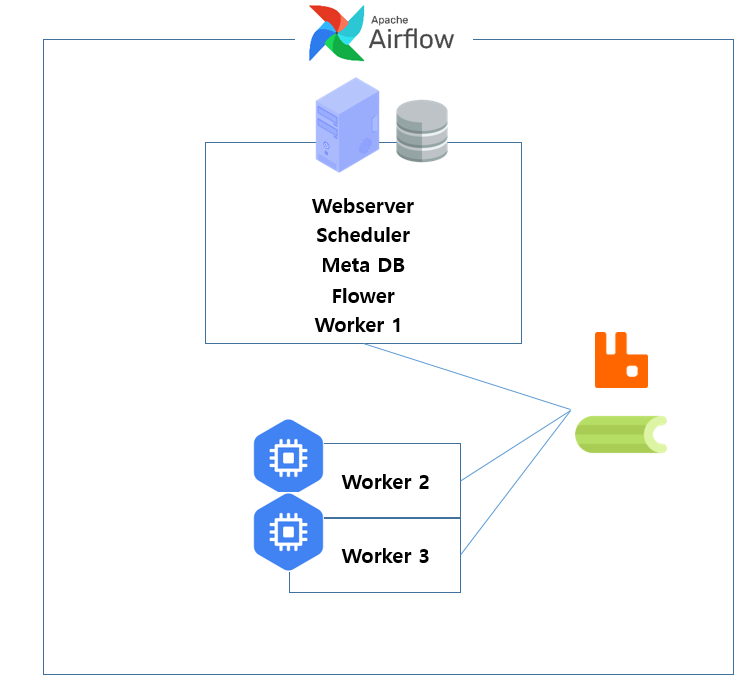
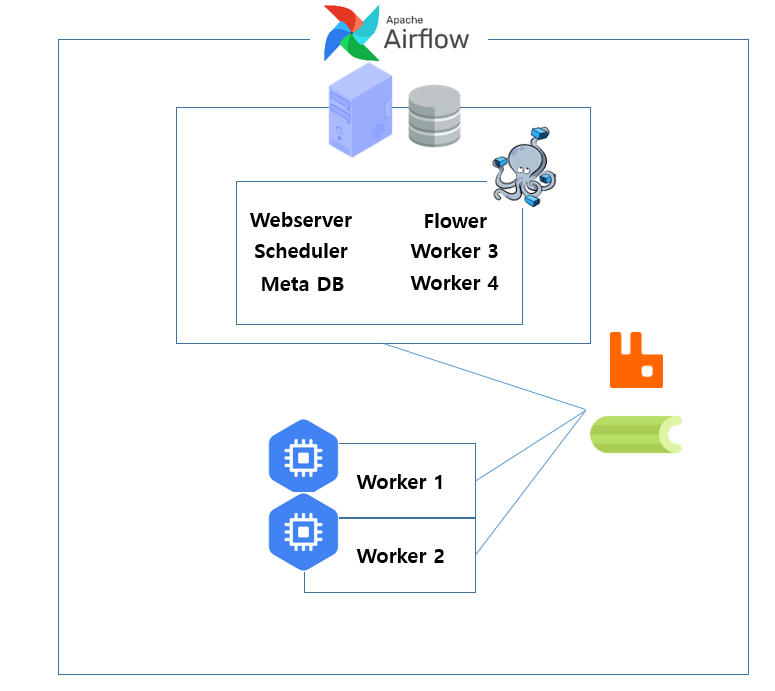
update readme

diff --git a/README.md b/README.md
@@ -8,32 +8,40 @@
 <img src="img/looker_graph.png" width="50%" height="50%">
 <br/><br/>
 
-# Data Pipeline Architecture
-데이터 파이프라인은 GCP기반의 ELT Process로 구성하였습니다.  
-Airflow를 사용하여 데이터 수집부터 집계까지를 자동화하였고 멱등성을 보장하여 재실행에도 중복데이터가 발생하지 않도록 설계하였습니다.  
-Celery Executor를 사용하여 병렬처리하였고 Master 노드를 자택 Local PC에 구성하고 2개의 Worker를 GCE로 구성하여 총 3개의 Worker를 사용했습니다.
+# Data Architecture 
+데이터 인프라는 데이터 수집 속도를 향상시키기 위해 Celery Executor를 사용한 분산서버로 구축하였습니다.  
+Master 노드를 자택 Local PC에 Docker Compose를 통해 구성하였고 2개의 Worker를 GCE로 구성하여 총 4개의 Worker를 사용했습니다.
 <br/><br/>
+
+### Infra Architecture 
 <img src="img/airflow_architecture.png" width="50%" height="50%">
 <br/><br/>
+<br/><br/>
+
+데이터 파이프라인은 GCP기반의 ELT Process로 구성하였습니다.  
+Airflow를 사용하여 데이터 수집부터 집계까지를 자동화하였고 멱등성을 보장하여 재실행에도 중복데이터가 발생하지 않도록 설계하였습니다. 
+<br/><br/>
+
+### Airflow Taskflow
 <img src="https://github.com/dbsgh3344/gcp_estate_project/assets/29767578/cca9ac58-2aa1-441d-839b-a4bb050482e5" width="50%" height="50%">
 <br/><br/>
 
 ## Data Ingestion
-데이터 수집은 네이버 부동산 사이트의 매물 데이터를 이용했습니다. 사이트내 아파트별로 올라온 매물을 확인할 수 있고 매물에 대한 정보 등이 기입되어 있습니다.  
+데이터 수집은 네이버 부동산 사이트의 매물 데이터를 이용했습니다. 사이트내 아파트별로 올라온 매물을 확인할 수 있고 매물에 대한 정보 등이 제공되고 있습니다.  
 <br/><br/>
 <img src="img/apt_for_sale_img.png" width="20%" height="20%">
 <br/><br/>
-일일 매물량을 확인하기 위해 Airflow를 통해 데일리 매물량 수집을 자동화하였고 데이터 타입, null값 제거 등의 전처리를 거친 csv파일을 GCS에 저장하였습니다.
+일일 매물량을 확인하기 위해 Airflow를 통해 데일리 매물량 수집을 자동화하였고 데이터 타입, null값 제거 등의 전처리를 거친 csv파일을 GCS에 저장했습니다.
 <br/><br/>
 <img src="img/bq_df.png" width="50%" height="50%">
 <br/><br/>
 
 ## Workflow 자동화
-GCS에 저장된 Raw Data를 데이터분석을 위해 Bigquery에 적재하였고 일일 매물량 확인을 위해 아파트별로 매물량 수를 집계하여 DataMart를 구성하였습니다.  
-이러한 과정을 Airflow를 통해 데일리 Workflow로 구성하여 자동화하였습니다. Airflow는 자동화 및 수행되지 않았던 기간의 Workflow를 채우는 용도로도 활용하였습니다.
+GCS에 저장된 Raw Data를 데이터분석을 위해 Bigquery에 적재하였고 일일 매물량 확인을 위해 아파트별로 매물량 수를 집계하여 DataMart를 구성했습니다.  
+이러한 과정을 Airflow를 통해 데일리 Workflow로 구성하여 자동화했습니다. Airflow는 backfill기능을 통해 자동화 및 수행되지 않았던 기간의 Workflow를 채우는 용도로도 활용하고 있습니다.
 <br/><br/>
 <img src="img/airflow_task.png" width="50%" height="50%">
 <br/><br/><br/>
-backfill을 통해 실행되지 않았던 전체 태스크, 부분 태스크를 수행하여 데이터 공백을 제거했습니다.
+<!-- backfill을 통해 실행되지 않았던 전체 태스크, 부분 태스크를 수행하여 데이터 공백을 제거했습니다.
 <br/><br/>
-<img src="img/backfill.png" width="50%" height="50%">
+<img src="img/backfill.png" width="50%" height="50%"> -->
